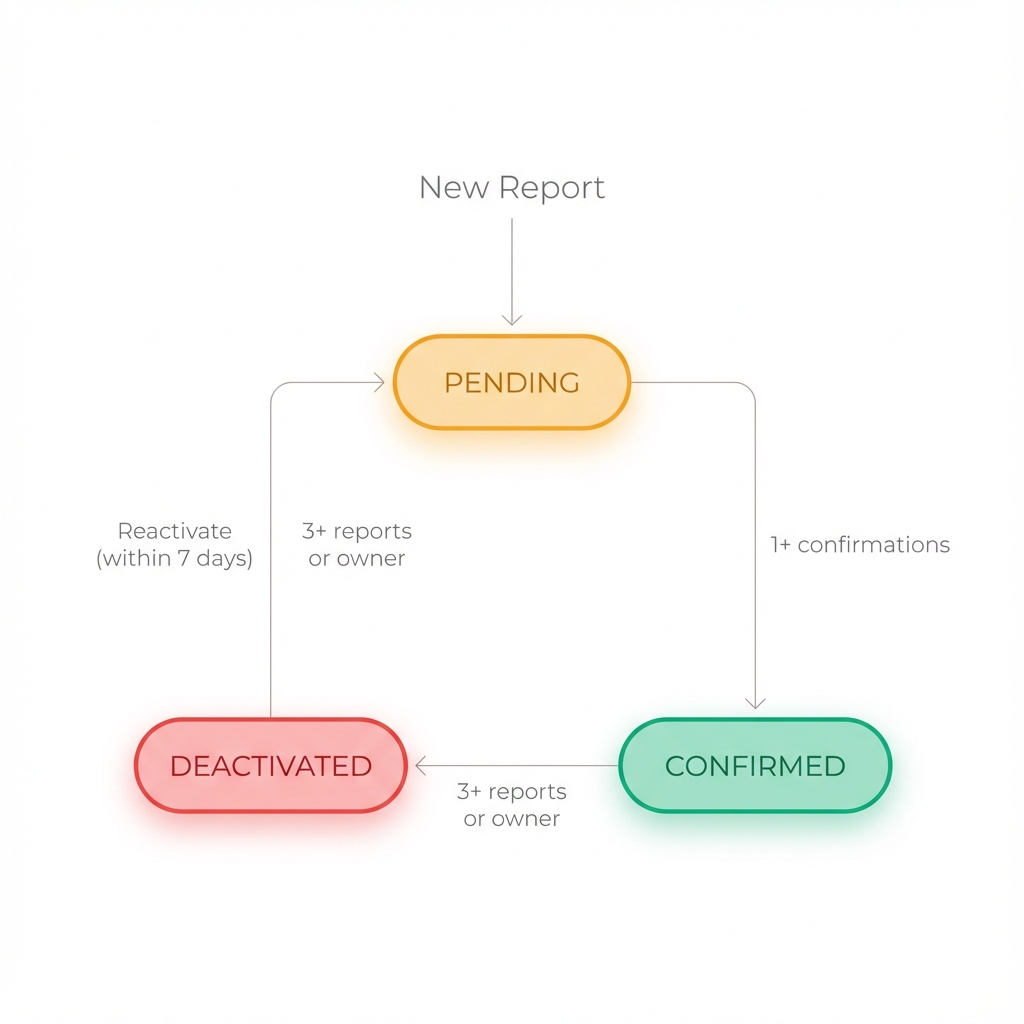
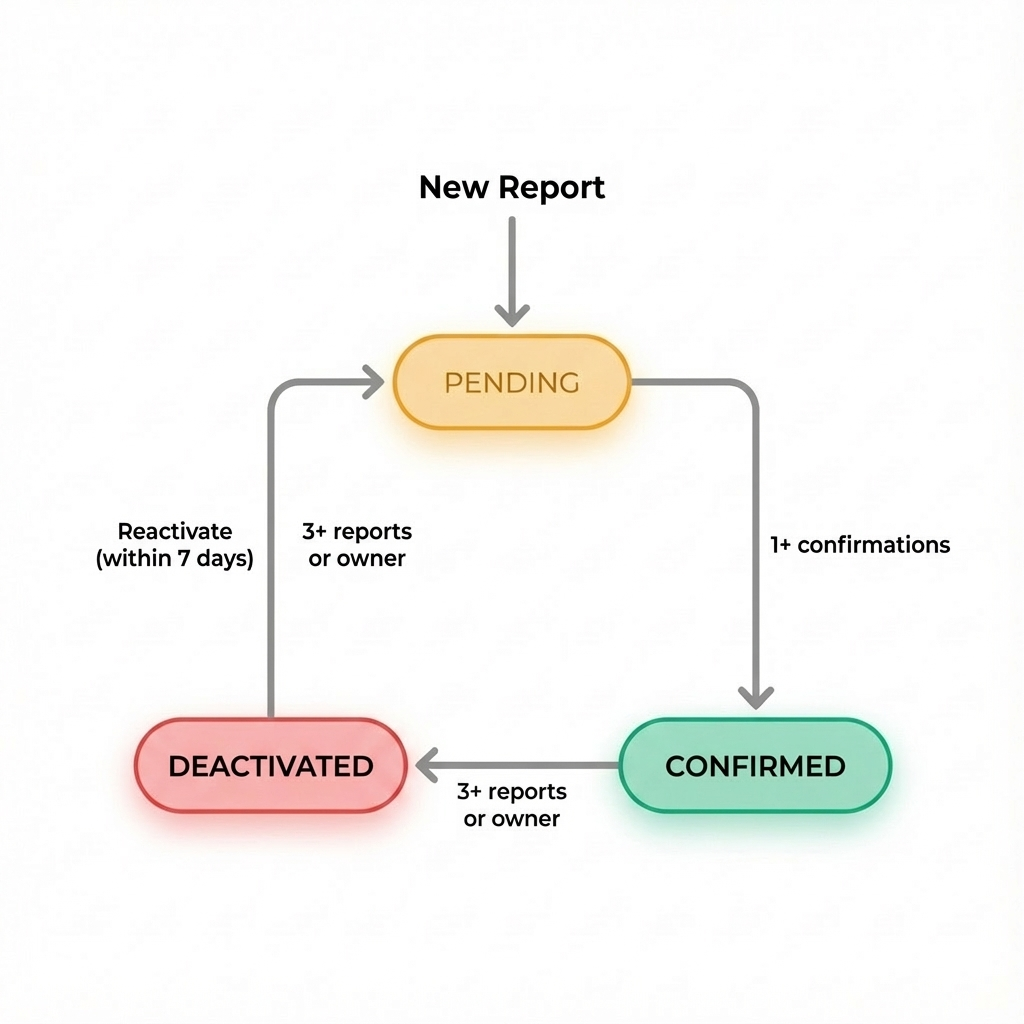
Docs: Remove welcome screen, add optional install note, bold state diagram

diff --git a/docs/USER_GUIDE.md b/docs/USER_GUIDE.md
@@ -9,12 +9,12 @@ NestFinder is a web app (PWA) that you can install directly on your phone withou
 ### Step 1: Open the App
 Visit: [https://m4j4r1c4l1.github.io/nestfinder/](https://m4j4r1c4l1.github.io/nestfinder/)
 
-<p align="center">
-  <img src="images/landing_01_welcome.jpg" width="200" alt="Welcome Screen" />
-  <img src="images/landing_02_home.jpg" width="200" alt="Home Screen" />
-</p>
+<p align="center"><img src="images/landing_02_home.jpg" width="240" alt="Home Screen" /></p>
 
-### Step 2: Install to Home Screen
+### Step 2: Install to Home Screen (Optional)
+
+> [!TIP]
+> Installing to your home screen is **optional**. The app works perfectly in any browser! Installing just makes it easier to access and gives a more app-like experience.
 
 #### 🍏 iOS (iPhone/iPad)
 1. Tap the **Share** button (box with arrow) or **Menu** (three dots).
